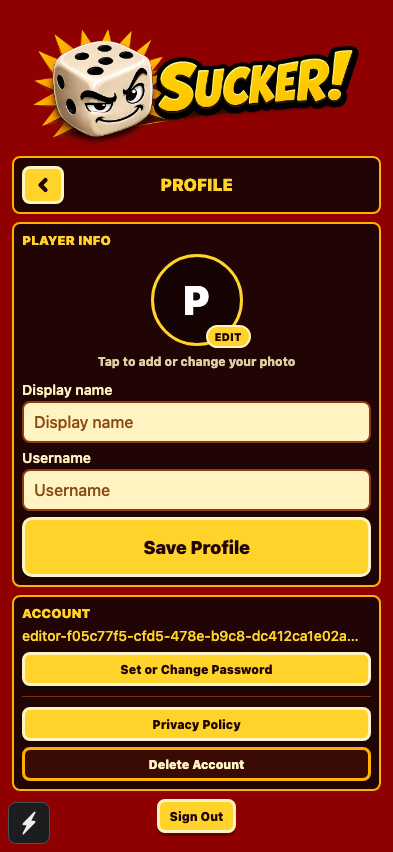
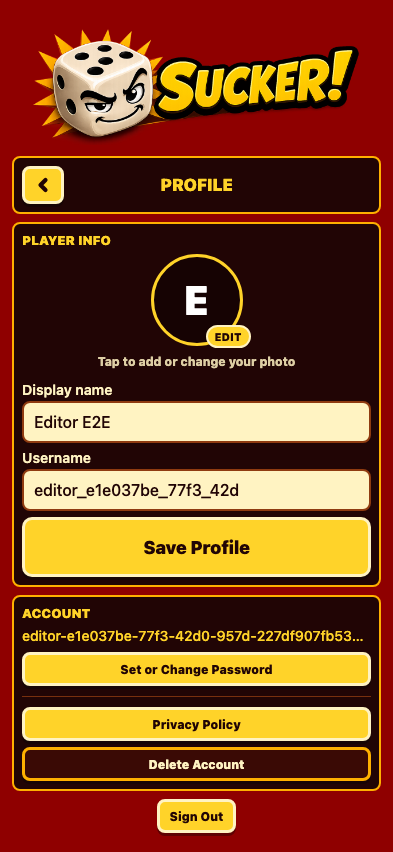
Capture the signed-in profile after loading finishes

diff --git a/e2e/multiplayer-web.spec.ts b/e2e/multiplayer-web.spec.ts
@@ -971,7 +971,11 @@ test('password editor resets after signing out and back in', async ({ browser })
   await page.getByTestId('password-sign-in-button').click();
   await expect(page.getByTestId('multiplayer-lobby-shell')).toBeVisible();
   await expect.poll(async () => await page.getByTestId('profile-button').count() + await page.getByTestId('toggle-password-editor').count()).toBeGreaterThan(0);
-  if (await page.getByTestId('profile-button').isVisible()) await page.getByTestId('profile-button').click();
+  if (await page.getByTestId('profile-button').isVisible()) {
+    await expect(page.getByText(`Hi, ${player.displayName}`)).toBeVisible();
+    await page.getByTestId('profile-button').click();
+  }
+  await expect(page.getByTestId('display-name-input')).toHaveValue(player.displayName);
   await page.screenshot({ path: test.info().outputPath('session-editor.png') });
   await expect(page.getByTestId('toggle-password-editor')).toHaveAttribute('aria-expanded', 'false');
   await page.getByTestId('toggle-password-editor').click();
